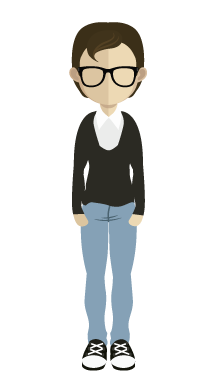
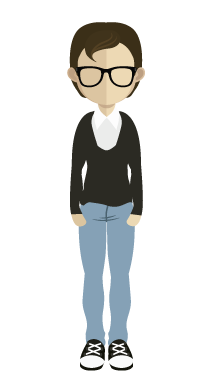
step one of animation complete
next: transition to step two, animate step two.

diff --git a/how-it-works/index.html b/how-it-works/index.html
@@ -58,67 +58,67 @@
     <div class="main wrapper clearfix">
 
       <article>
-        <header class="half">
-          <h1 class="white-text">FLIP THE FUNNEL</h1>
-          <h2>USE YOUR EXISTING CUSTOMERS TO GAIN NEW ONES</h2>
-          <p>CONTENT</p>
-          <img src="../images/trad-funnel.png"/>
+        <header>
+          <h1 class="white-text">HOW REFERRALCLIX WORKS</h1>
+          <h2>Note: animations pending.</h2>
+          <p><I class="fa fa-chevron-down"></i></p>
         </header>
-        <section class="half last funnel">
-          <img src="../images/funnel-full.png" class="hide" />
-          <img src="../images/funnel-top.png" class="top" />
-          <img src="../images/funnel.png" class="funnelspin" />
-          <img src="../images/funnel-bottom-1.png" class="bottom1" />
-          <img src="../images/funnel-bottom-2.png" class="bottom2" />
-          <img src="../images/funnel-bottom-3.png" class="bottom3" />
-        </section>
       </article>
 
     </div>
     <!-- #main -->
   </div>
   <!-- #top -->
-  <div class="main-container story">
+  <div class="main-container">
     <div class="main wrapper clearfix">
 
       <article id="story">
         <header>
-          <h1>HOW REFERRALCLIX WORKS</h1>
-          <h2>Note: animations pending.</h2>
-        </header>
-        <section>
-          <p>Mike makes a purchase.</p>
-          <div class="mike">
-            <img src="../images/mike_01.png"/>
-          </div>
+          <h1>This is Mike.</h1>
+        <!-- Step One: Mike makes a purchase. -->
+        <section id="stepone">
+          <p id="mikepurchase">Mike makes a purchase.</p>
+          <figure id="mike"></figure>
         </section>
-        <section>
+
+        <!-- Step Two: Mike sends a link. -->
+        <section id="steptwo">
           <p>Mike sends a referral link to his friends.</p>
-          <div class="plane">
+          <figure id="plane-right">
             <img src="../images/referral_01.png"/>
-          </div>
-          <div class="suzie">
+          </figure>
+          <div id="suzie">
             <img src="../images/suzie_01.png"/>
           </div>
-          <div class="mikesfriends">
+          <figure id="mikesfriends">
             <img src="../images/friends1.png"/>
-          </div>
+          </figure>
         </section>
-        <section>
+
+        <!-- Step Three: Suzie gets link and makes a purchase. -->
+        <section id="stepthree">
           <p>Suzie recieves the link from Mike and uses it to make a purchase.</p>
         </section>
-        <section>
+
+        <!-- Step Four: Suzie sends a link. -->
+        <section id="stepfour">
           <p>Suzie then sends a referral link to her friends.</p>
-          <div class="suziesfriends">
+          <figure id="suziesfriends">
             <img src="../images/friends2.png"/>
-          </div>
+          </figure>
+          <figure id="plane-left">
+            <img src="../images/referral_01.png"/>
+          </figure>
         </section>
-        <section>
+
+        <!-- Step Five: Mike receives a reward. -->
+        <section id="stepfive">
           <p>Mike receives a reward for his original purchase and referring a friend, and the cycle begins again.</p>
-          <div class="reward">
+          <figure id="reward">
             <img src="../images/gift.png"/>
-          </div>
+          </figure>
         </section>
+
       </article>
 
     </div>

diff --git a/js/story.js b/js/story.js
@@ -1,2 +1,83 @@
 /*story.js for Referralclix How It Works page - Kristi Witts*/
 /*-- "Mike Makes a Purchase" --*/
+
+$(document).ready(function() {
+
+  /* Scroll positions */
+  $(window).scroll(function() {
+
+    /* Mike - Step One and Two */
+    if ($(this).scrollTop() > 0) {
+      $('#mike').css({ 'position': 'fixed', 'top': '340px', 'opacity': '1' });
+    } else {
+      $('#mike').css({ 'position': 'absolute', 'top': '0px', 'opacity': '0.6' });
+    }
+    // if ($(this).scrollTop() > 150) {
+    //   $('#mike').css({ 'transform': 'translateX(-100px)' });
+    // } else {
+    //   $('#mike').css({ 'transform': 'translateX(0)' });
+    // }
+
+
+  });
+
+  /* Change Image */
+  $(window).scroll(function() {
+
+    /* Mike - Step One and Two */
+    if ($(this).scrollTop() > 700) {
+      $('#mike').css('background', 'url("../images/mike_03.png")');
+    } else if ($(this).scrollTop() > 200) {
+      $('#mike').css('background', 'url("../images/mike_02.png")');
+    } else {
+      $('#mike').css('background', 'url("../images/mike_01.png")');
+    }
+
+  });
+
+  /* Disappear */
+  $(window).scroll(function() {
+    if ($(this).scrollTop() > 4500) {
+      $('#mike').css({ 'opacity': '0' });
+    } else {
+      $('#mike').css({ 'opacity': '1' });
+    }
+  });
+
+  /* Show/Hide Content */
+  $(window).scroll(function() {
+  	var mymessage = $('#mikepurchase');
+    if ($(this).scrollTop() > 200) {
+      mymessage.fadeIn('500');
+    } else {
+      mymessage.fadeOut('200')
+    }
+  });
+  // function isScrolledIntoView(elem) {
+	//     var docViewTop = $(window).scrollTop();
+	//     var docViewBottom = docViewTop + $(window).height();
+  //
+	//     var elemTop = $(elem).offset().top;
+	//     var elemBottom = elemTop + $(elem).height();
+  //
+	//     return ((elemBottom >= docViewTop) && (elemTop <= docViewBottom));
+	// 	}
+  //
+	// var myelement = $('#cloud6');
+	// var mymessage = $('#description');
+	// $(window).scroll(function() {
+  //   if(isScrolledIntoView(myelement)) {
+  //       mymessage.fadeIn('500');
+  //   } else {
+  //       mymessage.fadeOut('200')
+  //   }
+  //
+  // var myelement1 = $('#hill');
+  // var mymessage1 = $('#red');
+  //   if(isScrolledIntoView(myelement1)) {
+  //     mymessage1.fadeIn('500');
+  //   } else {
+  //     mymessage1.fadeOut('200')
+  //   }
+  // });
+});

diff --git a/features/index.html b/features/index.html
@@ -54,18 +54,24 @@
       </div>
     </header>
   </div>
-  <div class="main-container page-title features">
-    <div class="main clearfix">
+  <div class="main-container page-title howitworks">
+    <div class="main wrapper clearfix">
 
       <article>
-        <header class="wrapper">
-          <h1 class="white-text">FEATURES PAGE HEADER</h1>
-          <h2>SUBHEADER</h2>
-          <p>Include screenshots of product or a graphic.</p>
+        <header class="half">
+          <h1 class="white-text">FLIP THE FUNNEL</h1>
+          <h2>USE YOUR EXISTING CUSTOMERS TO GAIN NEW ONES</h2>
+          <p>CONTENT</p>
+          <img src="../images/trad-funnel.png"/>
         </header>
-        <!--<section class="path">
-						<img src="../images/path.png" />
-					</section>-->
+        <section class="half last funnel">
+          <img src="../images/funnel-full.png" class="hide" />
+          <img src="../images/funnel-top.png" class="top" />
+          <img src="../images/funnel.png" class="funnelspin" />
+          <img src="../images/funnel-bottom-1.png" class="bottom1" />
+          <img src="../images/funnel-bottom-2.png" class="bottom2" />
+          <img src="../images/funnel-bottom-3.png" class="bottom3" />
+        </section>
       </article>
 
     </div>

diff --git a/css/style.css b/css/style.css
@@ -1026,8 +1026,38 @@ input {
 }
 
 /* Mike's Story*/
-.story article section {
+#story section {
   text-align: center !important;
+  position: relative;
+}
+#story section figure {
+  margin: 0;
+}
+#story section p {
+  font-size: 1.7em;
+  color: #0079c1;
+}
+/*Step One*/
+#stepone {
+  height: 1000px;
+  position: relative;
+}
+#stepone #mikepurchase {
+  position: relative;
+  margin: 300px auto 0;
+  display: none;
+}
+#stepone #mike {
+  position: absolute;
+  left: 50%;
+  margin-left: -108px;
+  opacity: 0.6;
+  /*transform: translateX(0);*/
+  transition: opacity .3s, background .5s, transform 1s;
+  background: url('../images/mike_01.png');
+  background-repeat: no-repeat;
+  width: 216px;
+  height: 375px;
 }
 
 
